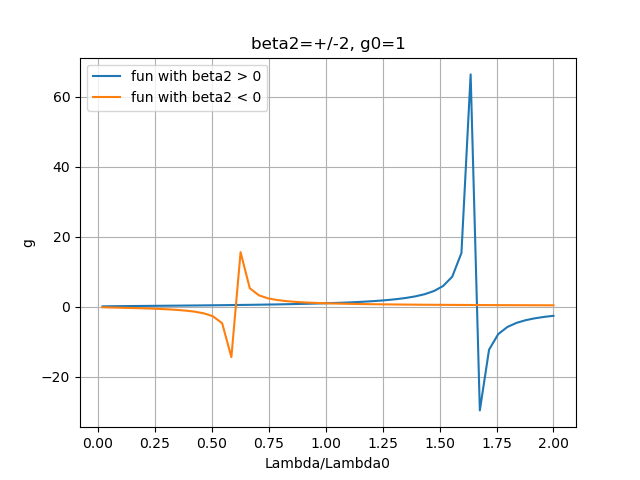
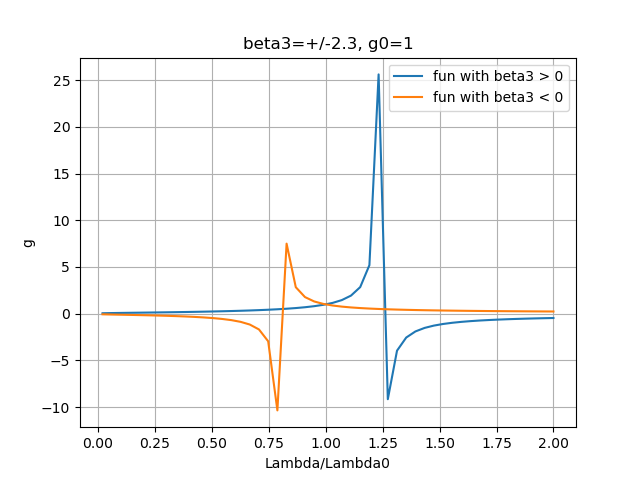
added chapters on ising-dbnet and renormalization group

diff --git a/renorm-group-phi-four/renom-tempo.tex b/renorm-group-phi-four/renom-tempo.tex
@@ -1044,27 +1044,37 @@ a\lam(\lam-\lam^*)
 
 %https://en.wikipedia.org/wiki/Landau_pole
 
-
+For both QED and QCD,\footnote{The Wikipedia article on Landau Poles asserts that Landau in 1954 assumed
+$\beta(g)= \beta_2 g^2 +\calo(g^3)$. This is historically correct but not the modern usage. Landau used $g=\frac{e^2}{4\pi}$ where $e$ is the charge of the electron. We are using $g=e$ instead.  } 
 \beq
-\beta(g)= \beta_2 g^2 +\calo(g^3)
+\beta(g)= \beta_3 g^3 +\calo(g^4)
 \eeq
 
 \beq
 \frac{dg}{d\ln \Lam}=\beta(g)\implies
-\int^g_{g_0}\frac{dg}{\beta_2 g^2}= \int_{\Lam_0}^\Lam d\ln \Lam
+\int^g_{g_0}\frac{dg}{\beta_3 g^3}= \int_{\Lam_0}^\Lam d\ln \Lam
 \eeq
 
 \beq
--\;\frac{1}{ g}+\frac{1}{ g_0}=\beta_2\ln \frac{\Lam}{\Lam_0}
+-\;\frac{1}{ 2g^2}+\frac{1}{ 2g^2_0}=\beta_3\ln \frac{\Lam}{\Lam_0}
 \eeq
 
 \beqa
-g &=& \frac{1}{\frac{1}{g_0} -\beta_2\ln\frac{\Lam}{\Lam_0}}
+g^2 &=& \frac{1}{\frac{1}{g^2_0} -2\beta_3\ln\frac{\Lam}{\Lam_0}}
 \\
 &=&
-\frac{g_0}{1 - \beta_2g_0\ln\frac{\Lam}{\Lam_0}}
+\frac{g^2_0}{1 - 2\beta_3g^2_0\ln\frac{\Lam}{\Lam_0}}
 \label{eq-g-landau-pole}
 \eeqa
+
+A fixed point $g^*$ satisfies
+$\beta(g^*)=0$. Hence
+both QED and QCD have a 
+unique fixed point (as far
+as we can tell from
+perturbation theory
+(in powers of $g$,  at $g=0$).
+
 
 \begin{figure}[h!]
 \centering
@@ -1072,14 +1082,40 @@ g &=& \frac{1}{\frac{1}{g_0} -\beta_2\ln\frac{\Lam}{\Lam_0}}
 {landau-pole.png}
 \caption{Plots of
 $g(\Lam/\Lam_0)$ defined by Eq.(\ref{eq-g-landau-pole})
-for $\beta_2=\pm 2$ and $g_0=1$.}
+for $\beta_2=\pm 2.3$ and $g_0=1$.}
 \label{fig-landau-pole}
 \end{figure}
 
+Landau Pole (LP)
 \beq
-\frac{\Lam_{pole}}{\Lam_0}=
-\exp\left(\frac{1}{\beta_2g_0}\right )
+\frac{\Lam_{LP}}{\Lam_0}=
+\exp\left(\frac{1}{2\beta_3g^2_0}\right )
 \eeq
+
+$\Gamma=\Lam_{LP}$ marks a scale,
+not the position
+of a fixed point as does $\Lam=0$.
+
+LP only arises for
+QED, not for QCD (asymptotic
+freedom of QCD ($g\downarrow$ as
+ $\Lam\uparrow$
+is incompatible with the prediction of a LP).
+
+For QED, one takes $\Lam_0 = m_0$, the bare mass of the electron and $g_0$ equal to
+the bare coupling.
+
+For QCD, if it the LP 
+rationale were valid,
+one would take $m_0=$ bare mass if a quark. But if we assume $m_0\rarrow 0$, and $\beta_3<0$,
+then, $\Lam_{pole}\rarrow 0$.
+
+
+For QED, perturbation in powers of $g$
+works only for low $\Lam$.
+For QCD, perturbation in powers of $g$
+works only for high $\Lam$.
+
 
 
 \begin{figure}[h!]
@@ -1089,10 +1125,12 @@ for $\beta_2=\pm 2$ and $g_0=1$.}
 \caption{Plots of
 $g(\Lam/\Lam_0)$ 
 for QCD ($\beta_2<0$)
-and QED ($\beta_2>0$).}
+and QED ($\beta_2>0$).
+For QCD, perturbation theory breaks down
+for $0\leq\Lam/\Lam_0<<1$
+so this figure is incorrect but suggestive. In reality, $\Lam_{pole}/\Lam\rarrow 0$.}
 \label{fig-qcd-qed-g}
 \end{figure}
-
 
 
 
@@ -1634,6 +1672,6 @@ The Landau pole $(0, u_{LP})$ is a pure repeller for for both QED and QCD.}
 \label{fig-qcd-qed-r-u-plane}
 \end{figure}
 
-
+For QCD and QED, $r=m^2_f$, fermion mass (mass of electron for QED and mass of quark for QCD). 
 
 \end{document}